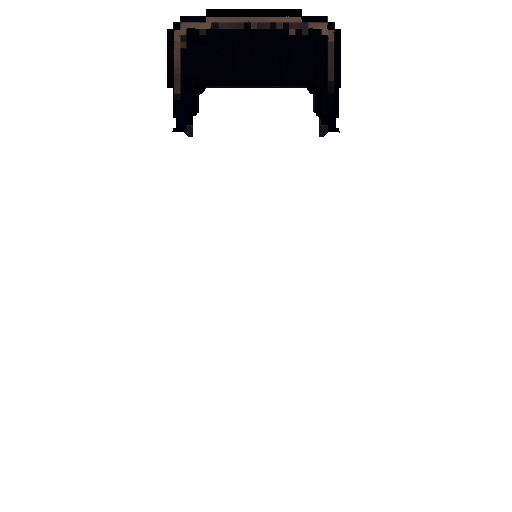
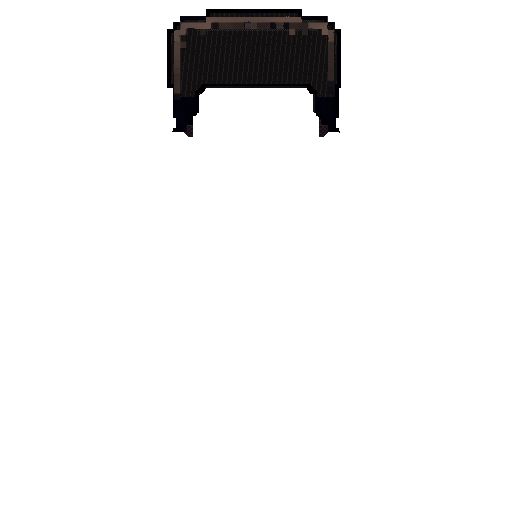
Polish the hairstyles and add eight more (3.9-pro.236)
New: afro puffs (the unused sprite), frohawk, short locs, short twists,
twist fade, tapered afro, hard part and wave fade, built from the existing
pixel art so they match it. League players with a cut that has a variant
sometimes wear it, rolled on a separate seed so the rest of an existing
player's face doesn't change.

Polish: the flat-top and high-top were near-solid black; they get a
combed strand texture.

Claude-Session: https://claude.ai/code/session_01Ad921vCXCXK62i93PQ2ZeT

Changed region(s): [[0.3438, 0.0312, 0.6562, 0.1875], [0.625, 0.1562, 0.6562, 0.1875]]

diff --git a/app/src/commonMain/kotlin/com/nh/hoopscoach/game/Face.kt b/app/src/commonMain/kotlin/com/nh/hoopscoach/game/Face.kt
@@ -18,7 +18,8 @@ class Face(
         val OPTIONS = listOf(
             listOf("Pale ivory", "Fair peach", "Olive bronze", "Warm caramel", "Medium brown", "Chestnut", "Dark chocolate", "Deep ebony"),
             listOf("Oval", "Round", "Square", "Long"),
-            listOf("Bald", "Buzz", "Slicked", "Fade", "Flat-top", "Afro", "High-top", "Headband", "Cornrows", "Locs", "Twists", "Mohawk", "Waves", "Top bun"),
+            listOf("Bald", "Buzz", "Slicked", "Fade", "Flat-top", "Afro", "High-top", "Headband", "Cornrows", "Locs", "Twists", "Mohawk", "Waves", "Top bun",
+                "Afro puffs", "Frohawk", "Short locs", "Short twists", "Twist fade", "Tapered afro", "Hard part", "Wave fade"),
             listOf("Black", "Dark brown", "Brown", "Auburn", "Blond", "Platinum", "Gray", "Red"),
             listOf("None", "Stubble", "Mustache", "Goatee", "Chin strap", "Full beard"),
             listOf("Default", "Intense", "Clutch", "Swagger", "Alert", "Blue", "Green"),
@@ -56,7 +57,26 @@ class Face(
             val eyes = weighted(r, listOf(0 to 0.55, 1 to 0.12, 2 to 0.1, 3 to 0.08, 4 to 0.07, 5 to 0.04, 6 to 0.04))
             val mouth = weighted(r, listOf(0 to 0.62, 1 to 0.2, 2 to 0.12, 3 to 0.06))
             val acc = weighted(r, listOf(0 to 0.82, 1 to 0.05, 2 to 0.04, 3 to 0.05, 4 to 0.02, 5 to 0.02))
-            return Face(skin, r.nextInt(4), hair, hairColor, beard, eyes, r.nextInt(3), mouth, acc)
+            return Face(skin, r.nextInt(4), variant(p, hair), hairColor, beard, eyes, r.nextInt(3), mouth, acc)
+        }
+
+        /**
+         * The newer cuts for league players: a share of those with a style that has a variant wear the variant
+         * instead. Rolled on its own seed so every other part of an existing player's face stays as it was.
+         */
+        private fun variant(p: Player, hair: Int): Int {
+            val r = kotlin.random.Random(p.look.toLong() * 131 + p.id * 7 + 5)
+            val roll = r.nextDouble()
+            return when (hair) {
+                1 -> if (roll < 0.25) 20 else hair                                   // buzz → hard part
+                3 -> if (roll < 0.2) 19 else hair                                    // fade → tapered afro
+                5 -> if (roll < 0.3) 19 else if (roll < 0.4) 15 else hair            // afro → tapered afro, frohawk
+                9 -> if (roll < 0.35) 16 else hair                                   // locs → short locs
+                10 -> if (roll < 0.3) 17 else if (roll < 0.6) 18 else hair           // twists → short twists, twist fade
+                11 -> if (roll < 0.35) 15 else hair                                  // mohawk → frohawk
+                12 -> if (roll < 0.4) 21 else hair                                   // waves → wave fade
+                else -> hair
+            }
         }
 
         /**

diff --git a/app/src/commonMain/kotlin/com/nh/hoopscoach/ui/SpriteSheets.kt b/app/src/commonMain/kotlin/com/nh/hoopscoach/ui/SpriteSheets.kt
@@ -182,6 +182,14 @@ object SpriteSheets {
         "mohawk",                // 11 Mohawk
         "messy_waves",           // 12 Waves
         "braided_top_bun",       // 13 Man bun / top bun
+        "double_afro_puffs",     // 14 Afro puffs
+        "frohawk",               // 15 Frohawk (the afro's middle over the mohawk's shaved sides)
+        "short_locs",            // 16 Short locs
+        "short_twists",          // 17 Short twists
+        "twists_fade",           // 18 Twist fade
+        "tapered_afro",          // 19 Tapered afro
+        "hard_part",             // 20 Hard part (a buzz with a shaved part)
+        "waves_fade",            // 21 Wave fade
     )
 
     // Face.eyes 0 = default (no overlay); 1..6 map to files.

diff --git a/app/src/desktopMain/kotlin/com/nh/hoopscoach/Main.kt b/app/src/desktopMain/kotlin/com/nh/hoopscoach/Main.kt
@@ -18,7 +18,7 @@ fun main() {
     val home = File(System.getProperty("user.home"), ".hoopsdynasty").apply { mkdirs() }
     PlatformContext.filesDir = home
     SaveTransfer.host = DesktopTransferHost()
-    PlatformContext.versionName = "3.9-pro.235"
+    PlatformContext.versionName = "3.9-pro.236"
     // A Windows app has no console, so errors go to a log beside the saves (the previous run's is kept).
     runCatching {
         val log = File(home, "hoops-log.txt")

diff --git a/app/src/androidMain/kotlin/com/nh/hoopscoach/MainActivity.kt b/app/src/androidMain/kotlin/com/nh/hoopscoach/MainActivity.kt
@@ -16,7 +16,7 @@ class MainActivity : ComponentActivity() {
         PlatformContext.filesDir = filesDir
         PlatformContext.versionName = runCatching {
             packageManager.getPackageInfo(packageName, 0).versionName
-        }.getOrNull() ?: "3.9-pro.235"
+        }.getOrNull() ?: "3.9-pro.236"
         AndroidAssets.appContext = applicationContext
         enableEdgeToEdge()
         super.onCreate(savedInstanceState)

diff --git a/app/src/commonMain/kotlin/com/nh/hoopscoach/Platform.kt b/app/src/commonMain/kotlin/com/nh/hoopscoach/Platform.kt
@@ -8,7 +8,7 @@ import java.io.File
 /** Paths and version strings that differ per platform. */
 object PlatformContext {
     lateinit var filesDir: File
-    var versionName: String = "3.9-pro.235"
+    var versionName: String = "3.9-pro.236"
 
     val saveFile: File get() = File(filesDir, "dynasty.sav")
 }
